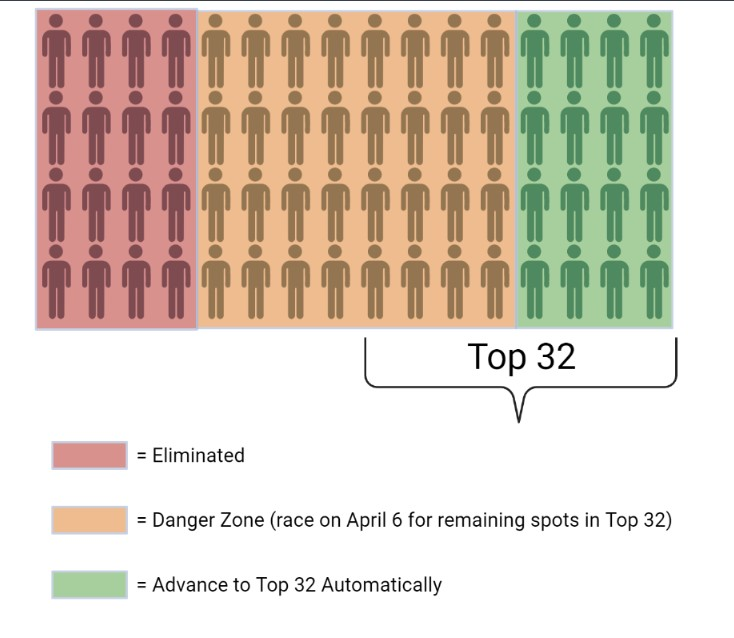
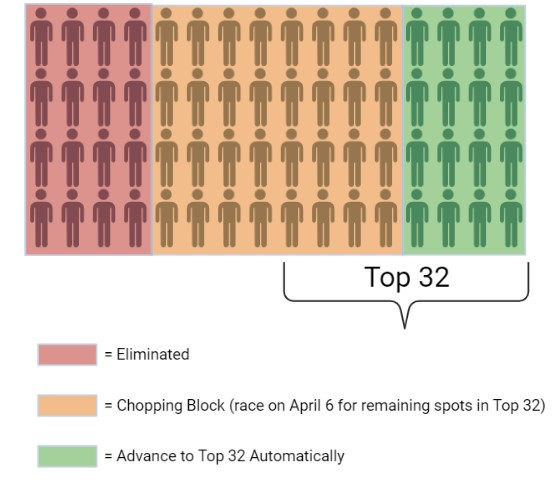
mvp

diff --git a/structure/index.html b/structure/index.html
@@ -22,8 +22,8 @@
             <nav class="nav page-header__nav">
                 <a class="page-header__nav-link" href="../index.html">Home</a>
                 <a class="page-header__nav-link" href="../calendar/index.html">Calendar</a>
-                <a class="page-header__nav-link page-header__nav-link_selected">RSVP Form</a>
-                <a class="page-header__nav-link" href="../structure/index.html">Tournament Structure</a>
+                <a class="page-header__nav-link" href="../interest/index.html">RSVP Form</a>
+                <a class="page-header__nav-link page-header__nav-link_selected">Tournament Structure</a>
                 <a class="page-header__nav-link" href="../incentives/index.html">Incentives</a>
                 <a class="page-header__nav-link" href="../resources/index.html">Resources</a>
                 <a class="page-header__nav-link" href="../faq/index.html">FAQ</a>
@@ -31,34 +31,45 @@
             </nav>
          </div>
       </header>
-      <!-- <section class="promo">
-         <div class="promo__inner">
-            <h1 class="promo__title">Welcome to my charity</h1>
-            <h2 class="promo__slogan">Lorem Ipsum is simply dummy text of the printing and typesetting.</h2>
-            <a class="promo__button" href="https://streamlabscharity.com/@roromaniac8/fresh-face-of-rando-r4u4">Donate Here!</a>
-         </div>
-      </section> -->
       <section class="message">
         <h1 class="message__title">
-            <center>
-                Fresh Face of Rando RSVP Form (Currently at 54* Submissions)
-            </center>
+            <center>April 1</center>
         </h1>
-        <center>
-            <iframe src="https://docs.google.com/forms/d/e/1FAIpQLSejtb311XFrmJzGBQiz1YklZ_4ZzXvSWjNAj5qDlYYT4hXq-w/viewform?embedded=true" width="640" height="1006" frameborder="0" marginheight="0" marginwidth="0">Loading…</iframe>
-            <br>
-            * This number is updated daily and is not a real time counter.
-        </center>
-        
+        This is the main qualifier that ALL racers will participate in. 
+        Upon completion of the race, we will divide those who finished outside of the Top 32 in half.
+        The bottom half will unfortunately be eliminated. The top half, will compete against the same 
+        number of people that make up the bottom of the top 32.
 
+        Simply show up to the racetime having completed the Racer Checklist for this one. 
+        If you cannot make it on April 1 7pm EST, please sign up for an async by DMing one of the TOs.
+        <center><img src="../static/images/WTF.jpg"></center>
       </section>
+      <section class="message">
+         <h1 class="message__title">
+             <center>April 6</center>
+         </h1>
+         The chopping block is reserved for the middle of the pack and half the racers will claim their spot in the Top 32. The other half will be eliminated.
+
+         You will be tagged after the race on April 1 in the #tourney-discussions channel if you need to do the Chopping Block qualifier.
+         You can either do the race live on April 6 7pm EST or async anytime between April 2 and April 5 by DMing one of the TOs.
+
+       </section>
+       <section class="message">
+         <h1 class="message__title">
+             <center>April 7 and Onwards</center>
+         </h1>
+         By April 7, the Top 32 will have been decided, and we will have a bracket for the remainder of the tournament. 
+         - Challonge
+         - Tourney Discussions
+         
+       </section>
       <footer class="page-footer">
          <div class="page-footer__inner">
             <nav class="nav page-footer__nav">
                 <a class="page-footer__nav-link" href="../index.html">Home</a>
                 <a class="page-footer__nav-link" href="../calendar/index.html">Calendar</a>
-                <a class="page-footer__nav-link page-footer__nav-link_selected">RSVP Form</a>
-                <a class="page-footer__nav-link" href="../structure/index.html">Tournament Structure</a>
+                <a class="page-footer__nav-link" href="../interest/index.html">RSVP Form</a>
+                <a class="page-footer__nav-link page-footer__nav-link_selected">Tournament Structure</a>
                 <a class="page-footer__nav-link" href="../incentives/index.html">Incentives</a>
                 <a class="page-footer__nav-link" href="../resources/index.html">Resources</a>
                 <a class="page-footer__nav-link" href="../faq/index.html">FAQ</a>
@@ -68,8 +79,8 @@
                <div class="widget widget_social">
                   <h3 class="widget__title">Follow Us</h3>
                   <a class="widget__icon widget__icon_fb" href="#">Facebook</a><a class="widget__icon widget__icon_tw" href="#">Twitter</a><a class="widget__icon widget__icon_gplus" href="#">Google+</a>
-               </div> -->
-               <!-- <div class="widget widget_feed">
+               </div>
+            <div class="widget widget_feed">
                   <h3 class="widget__title">News letter</h3>
                   <form class="subscribe-form" action="#" method="post"><input id="email-subscribe" type="text" name="email" value="Enter your email"> <label for="#email-subscribe"></label> <input type="submit" value="Subscribe"></form>
                </div> -->

diff --git a/incentives/index.html b/incentives/index.html
@@ -23,6 +23,7 @@
                 <a class="page-header__nav-link" href="../index.html">Home</a>
                 <a class="page-header__nav-link" href="../calendar/index.html">Calendar</a>
                 <a class="page-header__nav-link" href="../interest/index.html">RSVP Form</a>
+                <a class="page-header__nav-link" href="../structure/index.html">Tournament Structure</a>
                 <a class="page-header__nav-link page-header__nav-link_selected">Incentives</a>
                 <a class="page-header__nav-link" href="../resources/index.html">Resources</a>
                 <a class="page-header__nav-link" href="../faq/index.html">FAQ</a>
@@ -61,7 +62,7 @@
             However, for some reason, our resident nightmare correspondents <a href="https://www.twitch.tv/DoubleADewi" style="color: rgb(53, 172, 252)">DoubleADewi</a> and <a href="https://www.twitch.tv/Ragnoth" style="color: rgb(53, 172, 252)">Ragnoth</a> just keep coming back for more of this. Get ready to see superbosses having important magic spells,
             second chance and once more being hidden behind Absent Silhouettes, and other absurd randomizations. This will require our racers to do an insane amount of content with very few tools and requires an 
             insane amount of talent (and patience).</p><br><br>
-            <h2 style="margin-left: 3%"><u>$2000 Incentive: Chaos Modded Randomizer Race</u> ( subconjazz vs. Marsul )</h2>
+            <h2 style="margin-left: 3%"><u>$2000 Incentive: Chaos Modded Randomizer Race</u> (subconjazz vs. Marsul)</h2>
             <p style="margin-left: 3%; font-size: 16px; width: 1200px;">You may think you have seen everything when it comes to modded versions of Kingdom Hearts, but serial modder <a href="https://www.twitch.tv/thenja09" style="color: rgb(53, 172, 252)">TheNja09</a>
             might give you a run for your money. He constantly tries to make the randomizer more <strike>chaotic</strike> entertaining for viewers and players alike. For this race,
             he will choose a select number of mods that change... just about everything. We'll see how the racers fare on the tournament settings when the gameplay gets redefined.</p><br><br>
@@ -82,28 +83,13 @@
             <p style="margin-left: 3%; font-size: 16px; width: 1200px;">This coop will happen at the very end of the charity tournament to celebrate the event's success (hopefully). The current plan is to 
                allow users to come up with 25 Kingdom Hearts(ish) words that the racers cannot say. If they do, they must drink.</p><br><br>
          </p>
-        <h1 class="message__title">
-            Bounty Incentive List
-        </h1>
-        <p style="font-size: 16px">
-            What are these? 
-
-            These are for anyone in the community that wants to place a donation bounty on something happening. A few examples up for grabs are displayed
-            below. If you have your own bounty idea in mind, let me know and I will update this page to reflect your bounty.
-            <br>
-            <br>
-            <ul style="margin-left: 3%">
-               <li>Donate $X if someone get more than 75% of the possible points in the bracket prediction.</li>
-               <li>Donate $X if a pair of racers go berserk (turn TWTNW on). </li>
-               <li>Donate $X if a race starts with a proof. </li>
-            </ul>
-        </p>
       <footer class="page-footer">
          <div class="page-footer__inner">
             <nav class="nav page-footer__nav">
                 <a class="page-footer__nav-link" href="../index.html">Home</a>
                 <a class="page-footer__nav-link" href="../calendar/index.html">Calendar</a>
                 <a class="page-footer__nav-link" href="../interest/index.html">RSVP Form</a>
+                <a class="page-footer__nav-link" href="../structure/index.html">Tournament Structure</a>
                 <a class="page-footer__nav-link page-footer__nav-link_selected">Incentives</a>
                 <a class="page-footer__nav-link" href="../resources/index.html">Resources</a>
                 <a class="page-footer__nav-link" href="../faq/index.html">FAQ</a>

diff --git a/resources/index.html b/resources/index.html
@@ -23,6 +23,7 @@
                 <a class="page-header__nav-link" href="../index.html">Home</a>
                 <a class="page-header__nav-link" href="../calendar/index.html">Calendar</a>
                 <a class="page-header__nav-link" href="../interest/index.html">RSVP Form</a>
+                <a class="page-header__nav-link" href="../structure/index.html">Tournament Structure</a>
                 <a class="page-header__nav-link" href="../incentives/index.html">Incentives</a>
                 <a class="page-header__nav-link page-header__nav-link_selected">Resources</a>
                 <a class="page-header__nav-link" href="../faq/index.html">FAQ</a>
@@ -41,6 +42,30 @@
         <h1 class="message__title">
             <center>Resources</center>
         </h1>
+
+        <button class="accordion"><b>**Racer Checklist**</b></button>
+        <div class="panel">
+         <br>
+         <br>
+         If you don't understand how to do one of the steps outlined in the checklist below, please see the FAQ page to see if your question is there.
+
+            <ul>
+               <li><input type="checkbox"> Join the Randomizer Discord </li>
+               <li><input type="checkbox"> Sign up for the <i>Tournament Pings</i> in the #rules channel. I will be using this ping to update tournament rules and explanations. (If you really want to you can untick this after Fresh Faces).</li>
+               <li><input type="checkbox"> Have the randomizer setup to the 3.0 (v2) generator and 2.0.0 OpenKH Mod Manager. (details for updating if you already had the randomizer insalled can be found in #announcments in the randomizer discord).</li>
+               <li><input type="checkbox"> Add the rando4ukraine4 preset into your presets folder within your generator.</li>
+               <li><input type="checkbox"> Have livesplit downloaded. </li>
+               <li><input type="checkbox"> Get the loadless timer installed into your livesplit. </li>
+               <li><input type="checkbox"> Sign up for a racetime.gg account. </li>
+               <li><input type="checkbox"> Connect your twitch to your racetime.gg account. </li>
+               <li><input type="checkbox"> Create a layout that has your tracker, gameplay, and timers visible.</li>
+               <li><input type="checkbox"> (Optional) Sign up for <i>Active Racer</i> in the #rules channel since we have people who like to causally race these settings for practice.</li>
+            <ul>
+
+         <br>
+         <br>
+         <br>
+        </div>
 
         <button class="accordion">Setup</button>
         <div class="panel">
@@ -93,7 +118,8 @@
                   <p></p>
                <li>Max Form Levels = Number of Forms Acquired + 2.</li>
                   <p></p>
-
+               <li>Experience Boost adds 1 to your exp multiplier once you reach <i>half</i>  health.</li>
+                  <p></p>
             </ol>
          <br>
          <br>
@@ -105,11 +131,13 @@
          <br>
          <br>
             <ol style="margin-left: 3%">
-               <li>Think about Checks per Minute.</li>
+               <li>Think about Checks per Minute (CPM).</li>
                   <p></p>
                <li>Try to level forms as you go.</li>
                   <p></p>
-
+               <li>Skip Port Royal 2nd visit mob fights on the ship.</li>
+                  <p></p>
+               <li>You can die on some initial fights and sometimes its faster.</li>
             </ol>
          <br>
          <br>
@@ -149,6 +177,7 @@
                 <a class="page-footer__nav-link" href="../index.html">Home</a>
                 <a class="page-footer__nav-link" href="../calendar/index.html">Calendar</a>
                 <a class="page-footer__nav-link" href="../interest/index.html">RSVP Form</a>
+                <a class="page-footer__nav-link" href="../structure/index.html">Tournament Structure</a>
                 <a class="page-footer__nav-link" href="../incentives/index.html">Incentives</a>
                 <a class="page-footer__nav-link page-footer__nav-link_selected">Resources</a>
                 <a class="page-footer__nav-link" href="../faq/index.html">FAQ</a>

diff --git a/index.html b/index.html
@@ -23,6 +23,7 @@
                <a class="page-header__nav-link page-header__nav-link_selected">Home</a>
                <a class="page-header__nav-link" href="calendar/index.html">Calendar</a>
                <a class="page-header__nav-link" href="interest/index.html">RSVP Form</a>
+               <a class="page-header__nav-link" href="structure/index.html">Tournament Structure</a>
                <a class="page-header__nav-link" href="incentives/index.html">Incentives</a>
                <a class="page-header__nav-link" href="resources/index.html">Resources</a>
                <a class="page-header__nav-link" href="faq/index.html">FAQ</a>
@@ -118,10 +119,9 @@
              </div>
              <div class="event">
                 <h2 class="event__date"><span>6</span>April</h2>
-                <h3 class="event__title">Top 64</h3>
+                <h3 class="event__title">Chopping Block</h3>
                     <p class="event__text">
-                        A race that determines the top 32 that advnace to the bracket stage.
-                        In the event that we don't get enough racers, this race determines the Top 16.
+                        A race where the middle of the pack from the first qualifier competes for the remaining spots in the Top 32.
                     </p>
                 <a class="event__button" href="calendar/index.html">More</a>
              </div>
@@ -139,6 +139,7 @@
                 <a class="page-footer__nav-link page-footer__nav-link_selected">Home</a>
                 <a class="page-footer__nav-link" href="calendar/index.html">Calendar</a>
                 <a class="page-footer__nav-link" href="interest/index.html">RSVP Form</a>
+                <a class="page-footer__nav-link" href="../structure/index.html">Tournament Structure</a>
                 <a class="page-footer__nav-link" href="incentives/index.html">Incentives</a>
                 <a class="page-footer__nav-link" href="resources/index.html">Resources</a>
                 <a class="page-footer__nav-link" href="faq/index.html">FAQ</a>

diff --git a/faq/index.html b/faq/index.html
@@ -23,6 +23,7 @@
                 <a class="page-header__nav-link" href="../index.html">Home</a>
                 <a class="page-header__nav-link" href="../calendar/index.html">Calendar</a>
                 <a class="page-header__nav-link" href="../interest/index.html">RSVP Form</a>
+                <a class="page-header__nav-link" href="../structure/index.html">Tournament Structure</a>
                 <a class="page-header__nav-link" href="../incentives/index.html">Incentives</a>
                 <a class="page-header__nav-link" href="../resources/index.html">Resources</a>
                 <a class="page-header__nav-link page-header__nav-link_selected">FAQ</a>
@@ -379,6 +380,7 @@
                 <a class="page-footer__nav-link" href="../index.html">Home</a>
                 <a class="page-footer__nav-link" href="../calendar/index.html">Calendar</a>
                 <a class="page-footer__nav-link" href="../interest/index.html">RSVP Form</a>
+                <a class="page-footer__nav-link" href="../structure/index.html">Tournament Structure</a>
                 <a class="page-footer__nav-link" href="../incentives/index.html">Incentives</a>
                 <a class="page-footer__nav-link" href="../resources/index.html">Resources</a>
                 <a class="page-footer__nav-link page-footer__nav-link_selected">FAQ</a>

diff --git a/calendar/index.html b/calendar/index.html
@@ -23,6 +23,7 @@
                 <a class="page-header__nav-link" href="../index.html">Home</a>
                <a class="page-header__nav-link page-header__nav-link_selected">Calendar</a>
                <a class="page-header__nav-link" href="../interest/index.html">RSVP Form</a>
+               <a class="page-header__nav-link" href="../structure/index.html">Tournament Structure</a>
                <a class="page-header__nav-link" href="../incentives/index.html">Incentives</a>
                <a class="page-header__nav-link" href="../resources/index.html">Resources</a>
                <a class="page-header__nav-link" href="../faq/index.html">FAQ</a>
@@ -98,6 +99,7 @@
                 <a class="page-footer__nav-link" href="../index.html">Home</a>
                 <a class="page-footer__nav-link page-footer__nav-link_selected">Calendar</a>
                 <a class="page-footer__nav-link" href="../interest/index.html">RSVP Form</a>
+                <a class="page-footer__nav-link" href="../structure/index.html">Tournament Structure</a>
                 <a class="page-footer__nav-link" href="../incentives/index.html">Incentives</a>
                 <a class="page-footer__nav-link" href="../resources/index.html">Resources</a>
                 <a class="page-footer__nav-link" href="../faq/index.html">FAQ</a>

diff --git a/contact/index.html b/contact/index.html
@@ -23,6 +23,7 @@
                <a class="page-header__nav-link" href="../index.html">Home</a>
                <a class="page-header__nav-link" href="../calendar/index.html">Calendar</a>
                <a class="page-header__nav-link" href="../interest/index.html">RSVP Form</a>
+               <a class="page-header__nav-link" href="../structure/index.html">Tournament Structure</a>
                <a class="page-header__nav-link" href="../incentives/index.html">Incentives</a>
                <a class="page-header__nav-link" href="../resources/index.html">Resources</a>
                <a class="page-header__nav-link" href="../faq/index.html">FAQ</a>
@@ -211,6 +212,7 @@
                <a class="page-footer__nav-link" href="../index.html">Home</a>
                <a class="page-footer__nav-link" href="../calendar/index.html">Calendar</a>
                <a class="page-footer__nav-link" href="../interest/index.html">RSVP Form</a>
+               <a class="page-footer__nav-link" href="../structure/index.html">Tournament Structure</a>
                <a class="page-footer__nav-link" href="../incentives/index.html">Incentives</a>
                <a class="page-footer__nav-link" href="../resources/index.html">Resources</a>
                <a class="page-footer__nav-link" href="../faq/index.html">FAQ</a>
